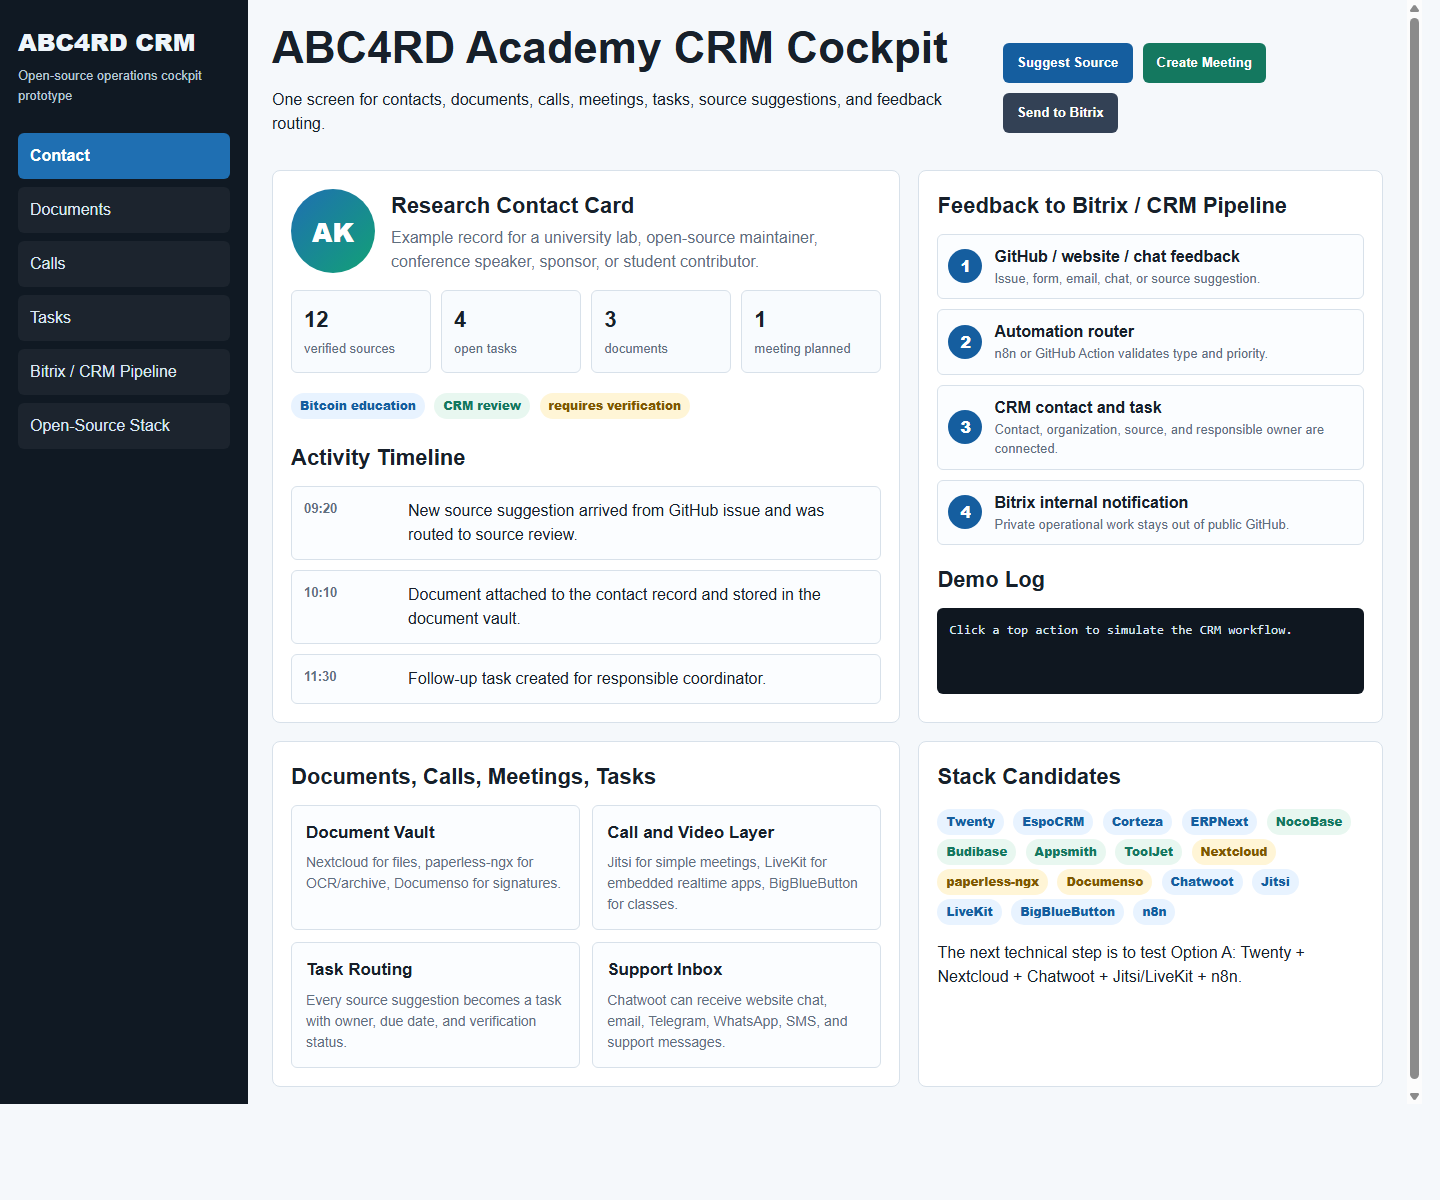
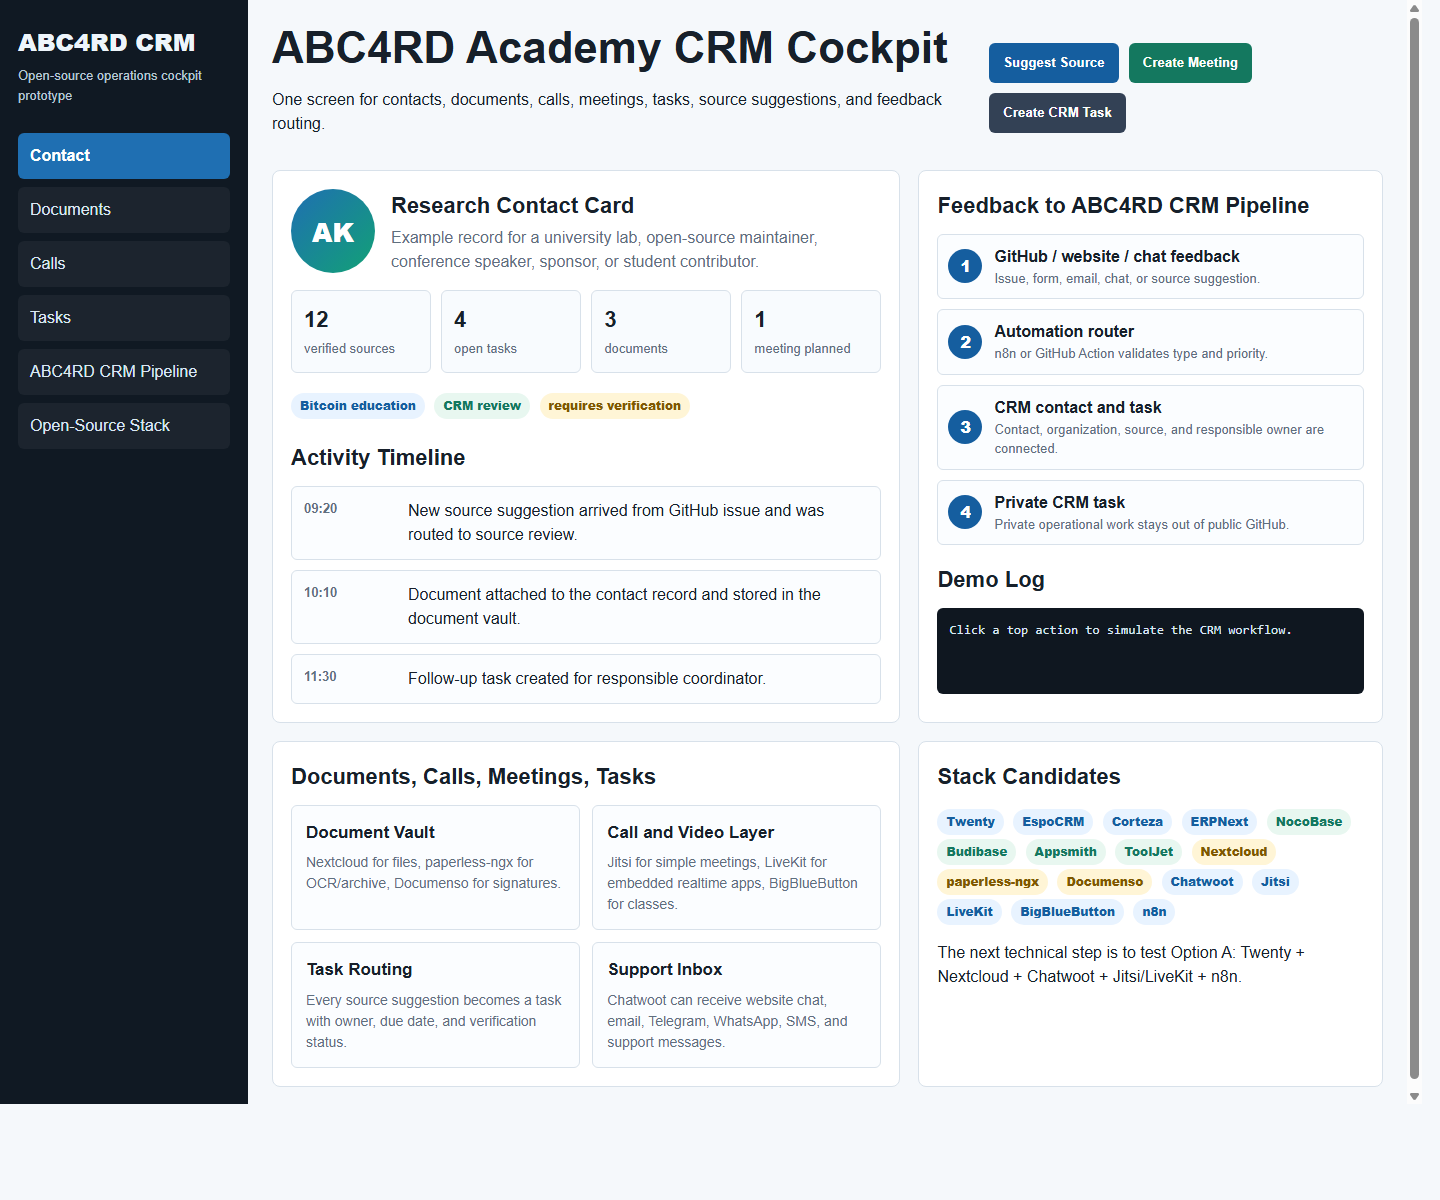
Remove Bitrix dependency from CRM direction

diff --git a/labs/crm-stack-lab/crm-cockpit-preview.html b/labs/crm-stack-lab/crm-cockpit-preview.html
@@ -343,7 +343,7 @@
         <a href="#documents">Documents</a>
         <a href="#calls">Calls</a>
         <a href="#tasks">Tasks</a>
-        <a href="#pipeline">Bitrix / CRM Pipeline</a>
+        <a href="#pipeline">ABC4RD CRM Pipeline</a>
         <a href="#stack">Open-Source Stack</a>
       </nav>
     </aside>
@@ -357,7 +357,7 @@
         <div class="actions">
           <button type="button" onclick="runDemo('source')">Suggest Source</button>
           <button type="button" class="secondary" onclick="runDemo('meeting')">Create Meeting</button>
-          <button type="button" class="neutral" onclick="runDemo('task')">Send to Bitrix</button>
+          <button type="button" class="neutral" onclick="runDemo('task')">Create CRM Task</button>
         </div>
       </div>
 
@@ -402,7 +402,7 @@
         </section>
 
         <section class="panel" id="pipeline">
-          <h2>Feedback to Bitrix / CRM Pipeline</h2>
+          <h2>Feedback to ABC4RD CRM Pipeline</h2>
           <div class="pipeline">
             <div class="step">
               <div class="dot">1</div>
@@ -418,7 +418,7 @@
             </div>
             <div class="step">
               <div class="dot">4</div>
-              <div><strong>Bitrix internal notification</strong><span>Private operational work stays out of public GitHub.</span></div>
+              <div><strong>Private CRM task</strong><span>Private operational work stays out of public GitHub.</span></div>
             </div>
           </div>
 
@@ -484,7 +484,7 @@
       const messages = {
         source: `[${now}] Source suggestion received.\nCreated CRM note: \"Review open-source CRM stack\".\nStatus: requires verification.\nNext owner: Source verification reviewer.`,
         meeting: `[${now}] Meeting request created.\nSelected route: Jitsi for simple meeting, LiveKit for embedded product call.\nTask: confirm participant and consent.`,
-        task: `[${now}] Internal task routed.\nPublic GitHub issue remains public.\nPrivate follow-up goes to Bitrix/CRM pipeline with responsible owner.`
+        task: `[${now}] Internal task routed.\nPublic GitHub issue remains public.\nPrivate follow-up goes to the ABC4RD CRM pipeline with responsible owner.`
       };
 
       log.textContent = messages[kind];

diff --git a/labs/website-builder-lab/templates/visual-builder-showcase/index.html b/labs/website-builder-lab/templates/visual-builder-showcase/index.html
@@ -33,10 +33,9 @@
     <section class="block">
       <small>Block 03</small>
       <h2>Feedback routing</h2>
-      <p>GitHub issue, discussion, or PR becomes a Bitrix triage task through webhook automation.</p>
-      <div class="flow"><span>GitHub</span><span>Action</span><span>Bitrix</span><span>Digest</span></div>
+      <p>GitHub issue, discussion, or PR becomes a private ABC4RD CRM triage task through webhook automation.</p>
+      <div class="flow"><span>GitHub</span><span>Action</span><span>ABC4RD CRM</span><span>Digest</span></div>
     </section>
   </main>
 </body>
 </html>
-

diff --git a/labs/website-builder-lab/templates/research-docs/index.html b/labs/website-builder-lab/templates/research-docs/index.html
@@ -39,9 +39,8 @@
     </section>
     <section id="workflow">
       <h2>Public Workflow</h2>
-      <pre><code>Source -> Issue -> Module -> Discussion -> Bitrix task -> Digest -> External PR</code></pre>
+      <pre><code>Source -> Issue -> Module -> Discussion -> CRM task -> Digest -> External PR</code></pre>
     </section>
   </main>
 </body>
 </html>
-

diff --git a/docs/weekly-digests/2026-05-10-ecosystem-integration-update.md b/docs/weekly-digests/2026-05-10-ecosystem-integration-update.md
@@ -21,10 +21,10 @@ internal follow-up while keeping public collaboration transparent.
 - Events and conferences map.
 - GitHub watchlist.
 - Outreach pipeline.
-- Bitrix24 feedback integration plan.
+- Private ABC4RD CRM feedback routing plan.
 - Source verification folder.
 - Partnership drafts folder.
-- Bitrix feedback sync workflow.
+- Private CRM feedback routing workflow draft.
 
 ## Public Issues Created
 
@@ -37,7 +37,7 @@ Twenty new source-review and integration issues were created in the main
 - RWA tokenization;
 - DAO governance tooling;
 - GitHub watchlists;
-- Bitrix feedback sync setup and testing.
+- Private CRM feedback routing setup and testing.
 
 ## Public Discussions Created
 
@@ -52,29 +52,20 @@ Ten new discussion threads were opened:
 - robotics and sensors ecosystem;
 - digital health institutions;
 - beginner-friendly contribution opportunities;
-- Bitrix feedback routing.
+- Private ABC4RD CRM feedback routing.
 
-## Bitrix Integration Status
+## Private CRM Integration Status
 
-The workflow exists:
-
-```text
-.github/workflows/bitrix-feedback-sync.yml
-```
-
-It is safe by default. If `BITRIX_WEBHOOK_URL` is not configured, it exits
-without sending data.
-
-Next required human action:
+The previous external CRM workflow has been retired. ABC4RD Academy will use an independent private CRM workflow instead of depending on a third-party CRM by default.
 
 ```text
-Add BITRIX_WEBHOOK_URL as a GitHub repository secret.
+ABC4RD CRM pipeline: GitHub feedback -> private CRM task -> responsible owner
 ```
 
 ## Next Work
 
-1. Add the Bitrix webhook secret.
-2. Test one GitHub issue to Bitrix task sync.
+1. Define the minimum ABC4RD CRM data model.
+2. Test one GitHub issue to private CRM task sync.
 3. Verify the 20 ecosystem source-review issues.
 4. Expand the university and institution maps with GitHub links.
 5. Pick one new external docs contribution target.
@@ -85,6 +76,5 @@ Add BITRIX_WEBHOOK_URL as a GitHub repository secret.
 - No mass outreach was sent.
 - No partnership claims were made.
 - No private contact data was published.
-- No Bitrix webhook URL was committed.
+- No private CRM webhook URL was committed.
 - All maps use official/public sources or `requires verification` status.
-

diff --git a/docs/crm-open-source-stack-map.md b/docs/crm-open-source-stack-map.md
@@ -1,6 +1,6 @@
 # ABC4RD CRM Open-Source Stack Map
 
-ABC4RD Academy should treat CRM as an operations cockpit, not only as a sales database. The target system should connect contacts, organizations, documents, calls, video meetings, tasks, source suggestions, GitHub feedback, and Bitrix/CRM routing.
+ABC4RD Academy should treat CRM as an operations cockpit, not only as a sales database. The target system should connect contacts, organizations, documents, calls, video meetings, tasks, source suggestions, GitHub feedback, and an independent ABC4RD CRM workflow.
 
 This map is a working research index for open-source CRM, ERP, document management, communications, scheduling, automation, and low-code tools.
 
@@ -17,7 +17,7 @@ flowchart LR
   B --> D["Documents and source files"]
   B --> E["Calls and video meetings"]
   B --> F["Tasks and responsible owner"]
-  B --> G["Bitrix / internal operations pipeline"]
+  B --> G["ABC4RD CRM workflow"]
   D --> H["Nextcloud / Paperless / Documenso"]
   E --> I["Jitsi / LiveKit / BigBlueButton / Asterisk"]
   F --> J["n8n / Budibase / NocoBase automation"]
@@ -37,7 +37,7 @@ flowchart LR
 | Video and voice | [Jitsi Meet](https://github.com/jitsi/jitsi-meet), [LiveKit](https://github.com/livekit/livekit), [BigBlueButton](https://github.com/bigbluebutton/bigbluebutton) | Embedded meetings, classes, realtime audio/video, recordings. | active research |
 | Telephony | [Asterisk](https://github.com/asterisk/asterisk), [FreeSWITCH](https://github.com/signalwire/freeswitch) | SIP/PBX/call routing layer for a future call center. | advanced research |
 | Scheduling | [Cal.diy](https://github.com/calcom/cal.com) | Meeting booking and scheduling infrastructure. | active research |
-| Automation | [n8n](https://github.com/n8n-io/n8n) | Webhooks, routing, CRM/Bitrix/GitHub automation. | active research |
+| Automation | [n8n](https://github.com/n8n-io/n8n) | Webhooks, routing, CRM/GitHub/email/chat automation. | active research |
 | Internal tools | [NocoBase](https://github.com/nocobase/nocobase), [Budibase](https://github.com/budibase/budibase), [Appsmith](https://github.com/appsmithorg/appsmith), [ToolJet](https://github.com/ToolJet/ToolJet) | Build CRM cockpit screens and workflows quickly. | active research |
 
 ## CRM and ERP Candidates
@@ -87,7 +87,7 @@ flowchart LR
 | NocoDB | https://github.com/nocodb/nocodb | Airtable-like database UI | Medium/high | Useful for quick data tables and source review lists. |
 | Baserow | https://github.com/bram2w/baserow | Database/spreadsheet builder | Medium/high | Useful as a light CRM/source-index database. |
 | Directus | https://github.com/directus/directus | Data/API/admin layer | High | Strong if ABC4RD wants a clean data backend and API. |
-| n8n | https://github.com/n8n-io/n8n | Workflow automation | High | Best candidate for GitHub feedback -> CRM/Bitrix task routing. |
+| n8n | https://github.com/n8n-io/n8n | Workflow automation | High | Best candidate for GitHub feedback -> ABC4RD CRM task routing. |
 
 ## Recommended ABC4RD Pilot
 
@@ -97,7 +97,7 @@ flowchart LR
 - Nextcloud for documents.
 - Chatwoot for website/chat/email intake.
 - Jitsi or LiveKit for meetings.
-- n8n for routing feedback to Bitrix/CRM tasks.
+- n8n for routing feedback to ABC4RD CRM tasks.
 
 ### Option B: Low-code operations cockpit
 
@@ -133,4 +133,3 @@ Do not send mass outreach. For each project, ABC4RD Academy should first:
 3. create a short internal source-review note;
 4. identify a concrete documentation improvement;
 5. open a small upstream issue or PR only if useful and specific.
-

diff --git a/docs/outreach-pipeline.md b/docs/outreach-pipeline.md
@@ -21,7 +21,7 @@ accuracy feedback and useful collaboration, not promotion.
 - Do not mass message speakers or sponsors.
 - Do not scrape private contacts.
 - Do not paste private replies into public repos.
-- Do not use Bitrix as a source of public claims.
+- Do not use private CRM notes as a source of public claims.
 
 ## Message Types
 
@@ -33,9 +33,9 @@ accuracy feedback and useful collaboration, not promotion.
 | Guest session invitation | Only after public materials are credible |
 | Thank-you note | After referencing a public talk or paper |
 
-## Bitrix Routing
+## Private CRM Routing
 
-Every meaningful reply should become a Bitrix task or contact note:
+Every meaningful reply should become a private ABC4RD CRM task or contact note:
 
 - source correction;
 - collaboration suggestion;
@@ -47,4 +47,3 @@ Every meaningful reply should become a Bitrix task or contact note:
 - medical/safety concern.
 
 Do not store secrets, private tokens, or confidential documents in GitHub.
-

diff --git a/labs/crm-stack-lab/README.md b/labs/crm-stack-lab/README.md
@@ -1,6 +1,6 @@
 # ABC4RD CRM Stack Lab
 
-This lab explores how ABC4RD Academy can build an open-source operations cockpit around CRM, documents, calls, meetings, tasks, feedback, GitHub, and Bitrix/CRM routing.
+This lab explores how ABC4RD Academy can build an open-source operations cockpit around CRM, documents, calls, meetings, tasks, feedback, GitHub, and an independent ABC4RD CRM workflow.
 
 The first artifact is a local static preview:
 
@@ -14,7 +14,7 @@ It is not a production CRM. It is a clickable concept file for reviewing the ope
 - Document vault.
 - Call and video meeting panel.
 - Task and owner routing.
-- Feedback to Bitrix/CRM pipeline.
+- Feedback to ABC4RD CRM pipeline.
 - Open-source stack map.
 
 ## Safety and Operations Notes
@@ -23,5 +23,4 @@ It is not a production CRM. It is a clickable concept file for reviewing the ope
 - Do not claim partnership with listed projects.
 - Review licenses before production use.
 - Use GitHub for public research and documentation.
-- Use internal CRM/Bitrix for private operations and personal data.
-
+- Use the private ABC4RD CRM database for operations and personal data.

diff --git a/docs/ecosystem-map.md b/docs/ecosystem-map.md
@@ -15,7 +15,7 @@ target for research, citation, contribution, or respectful feedback."
 - No endorsement language without explicit approval.
 - No mass tagging, mass email, or automated outreach.
 - Prefer issues, docs fixes, source suggestions, and narrow accuracy feedback.
-- Move actionable feedback into Bitrix for internal follow-up.
+- Move actionable feedback into the private ABC4RD CRM for internal follow-up.
 
 ## Primary Ecosystem Tracks
 
@@ -42,7 +42,7 @@ target for research, citation, contribution, or respectful feedback."
 3. Improve one ABC4RD module or glossary entry.
 4. Find one upstream docs contribution opportunity.
 5. Publish a weekly digest.
-6. Route actionable feedback to Bitrix.
+6. Route actionable feedback to the private ABC4RD CRM.
 7. Ask for narrow accuracy feedback only after the public artifact is useful.
 
 ## Follow / Watch Strategy
@@ -70,4 +70,3 @@ Useful signals:
 | `watch` | Useful to monitor but not ready for outreach |
 | `contribution target` | Suitable for small docs/source PR |
 | `do not contact yet` | Needs stronger ABC4RD public artifact first |
-

diff --git a/docs/crm-open-source-upstream-interaction-plan.md b/docs/crm-open-source-upstream-interaction-plan.md
@@ -28,7 +28,7 @@ No mass outreach. ABC4RD Academy should contact upstream projects only when ther
 | Jitsi Meet | Integration note | Review simple embedded meeting path for contact records. | draft |
 | LiveKit | Architecture note | Review realtime room, recording/export, and AI-agent use cases. | draft |
 | BigBlueButton | Education note | Review webinar/classroom features for Academy sessions. | draft |
-| n8n | Workflow note | Draft GitHub issue/form/chat -> CRM/Bitrix task workflow. | draft |
+| n8n | Workflow note | Draft GitHub issue/form/chat -> ABC4RD CRM task workflow. | draft |
 
 ## Upstream Message Template
 
@@ -78,4 +78,3 @@ Thank you for maintaining this project.
 - Do not paste identical messages across projects.
 - Do not publish private contact data or operational records in GitHub.
 - Do not claim that a project is integrated until a real test or prototype exists.
-

diff --git a/docs/essays/trustworthy-computation-bitcoin-to-physical-infrastructure.md b/docs/essays/trustworthy-computation-bitcoin-to-physical-infrastructure.md
@@ -169,7 +169,7 @@ The center should produce:
 - external docs contributions;
 - weekly digests;
 - careful outreach drafts;
-- Bitrix-routed internal follow-up;
+- private ABC4RD CRM follow-up;
 - no fake partnerships.
 
 The long-term value is not that ABC4RD Academy knows every field. The value is
@@ -203,4 +203,3 @@ about trust:
 - Who is qualified to review it?
 
 That is the foundation of trustworthy computation.
-

diff --git a/docs/github-watchlist.md b/docs/github-watchlist.md
@@ -41,5 +41,4 @@ When watching a repository, record:
 - Do not follow/unfollow in bulk.
 - Do not tag people without context.
 - Do not represent stars/follows as partnerships.
-- Move useful opportunities into GitHub Issues or Bitrix tasks.
-
+- Move useful opportunities into GitHub Issues or private ABC4RD CRM tasks.

diff --git a/docs/publishing-safety.md b/docs/publishing-safety.md
@@ -28,7 +28,7 @@ Never commit:
 - private emails;
 - CRM exports;
 - internal contracts;
-- raw Dropbox, Bitrix, Gmail, or iCloud credentials.
+- raw Dropbox, CRM, Gmail, or iCloud credentials.
 
 Use:
 